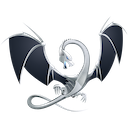
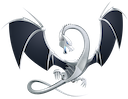
trim the dragons.

diff --git a/README.md b/README.md
@@ -1,4 +1,4 @@
-![WLLVM](https://github.com/SRI-CSL/whole-program-llvm/blob/master/img/dragon128x128.png?raw=true)Whole Program LLVM
+![WLLVM](https://github.com/SRI-CSL/whole-program-llvm/blob/master/img/dragon128x128.png?raw_true)Whole Program LLVM
 ==================
 [![PyPI version](https://badge.fury.io/py/wllvm.svg)](https://badge.fury.io/py/wllvm)
 [![Build Status](https://travis-ci.org/SRI-CSL/whole-program-llvm.svg?branch=master)](https://travis-ci.org/SRI-CSL/whole-program-llvm)
